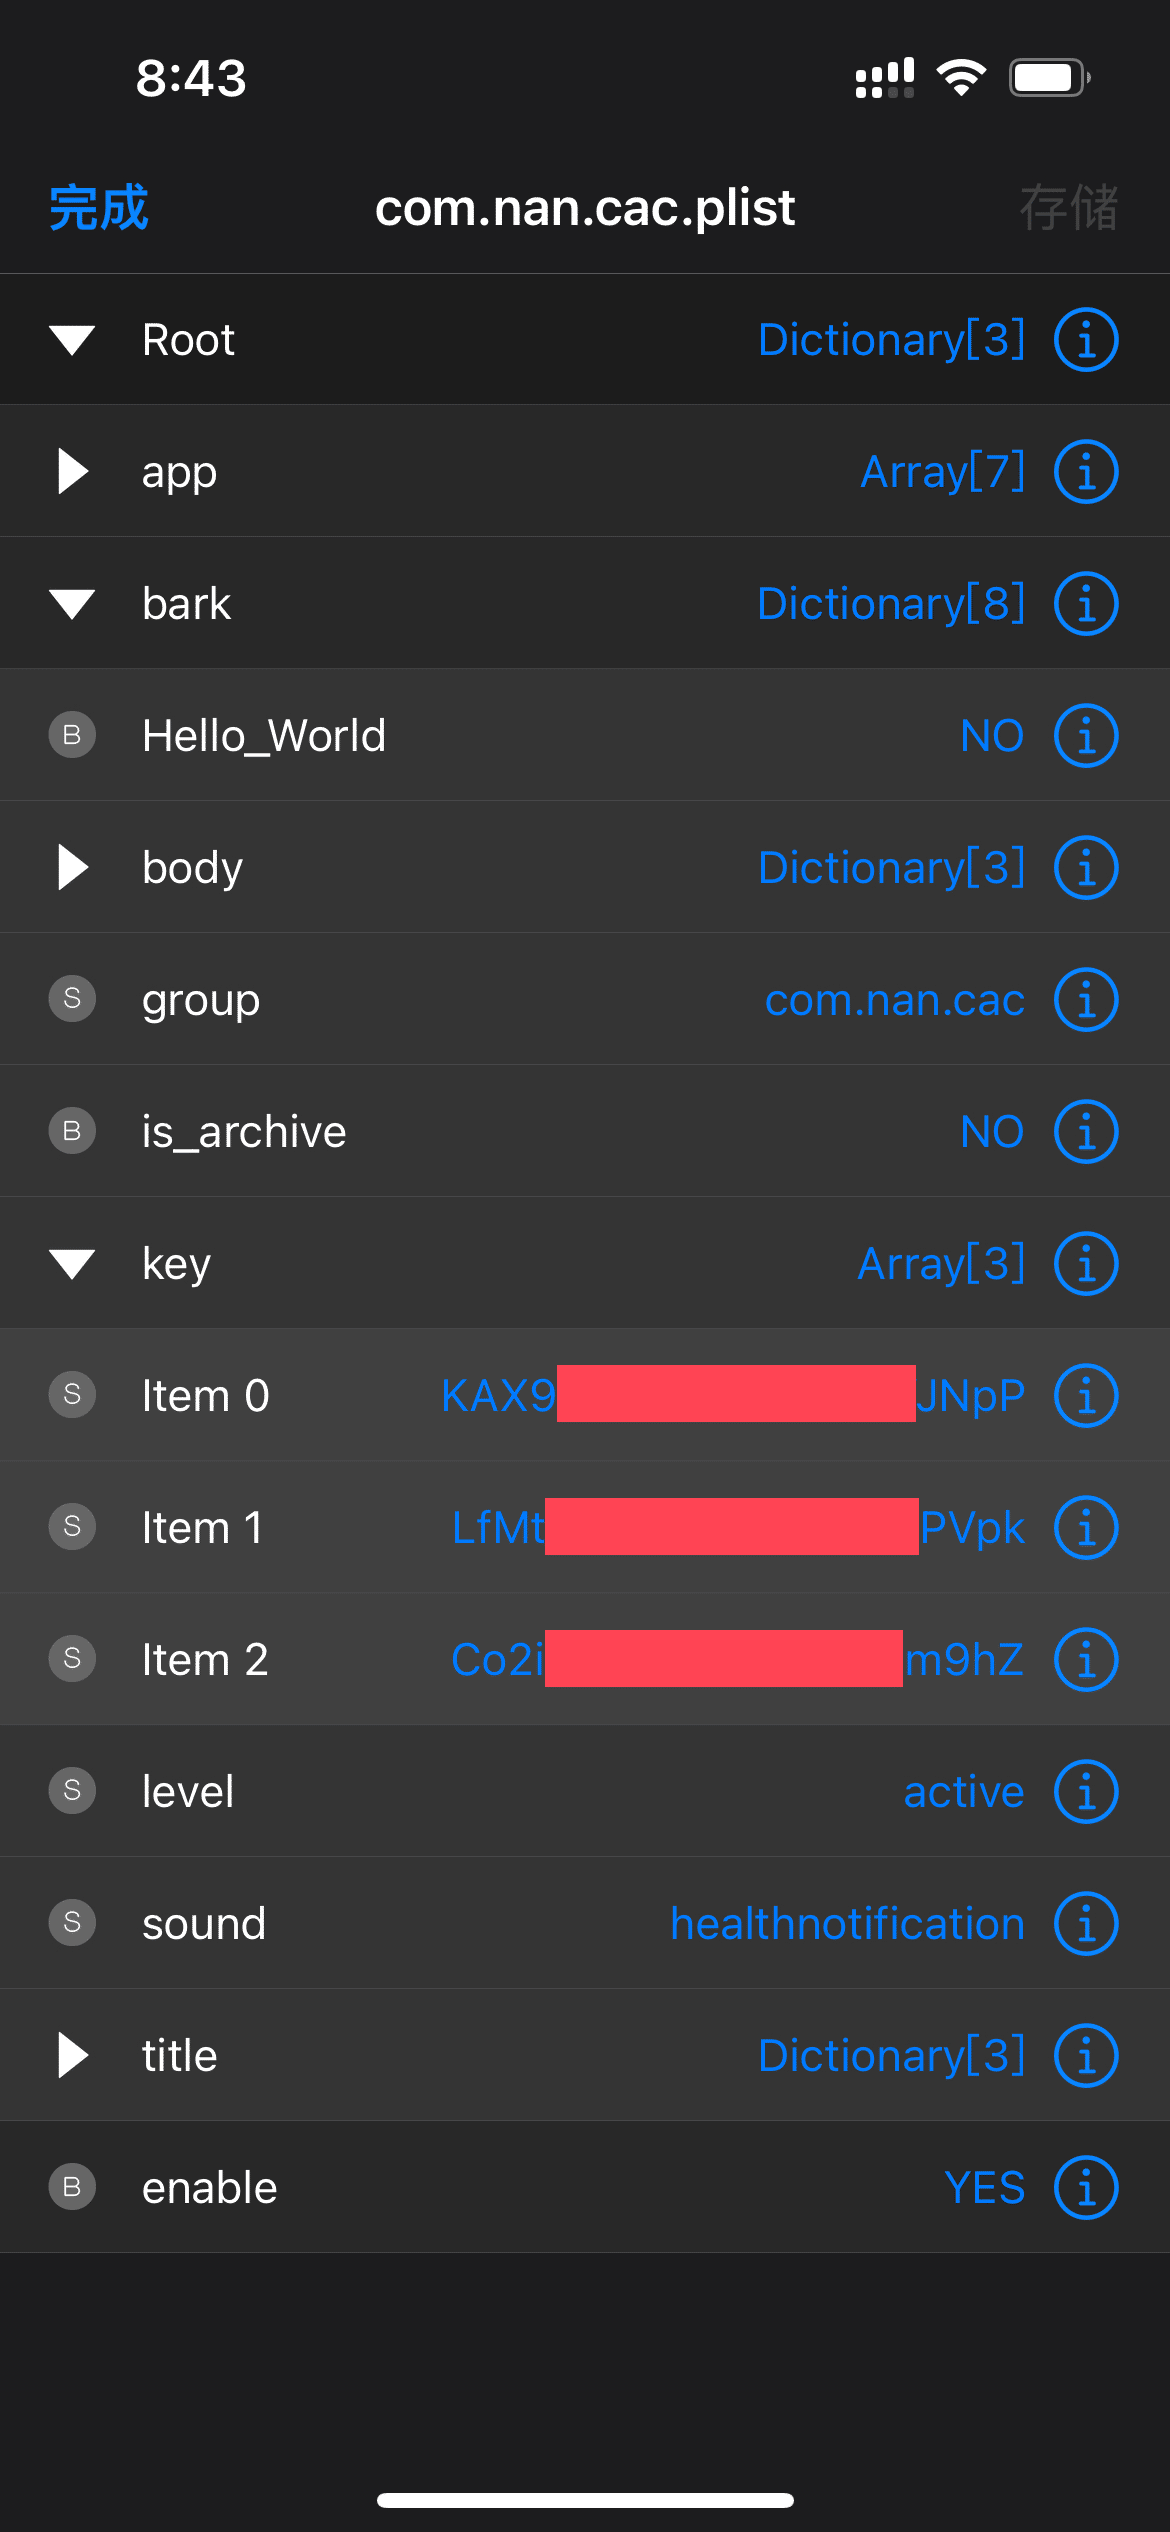
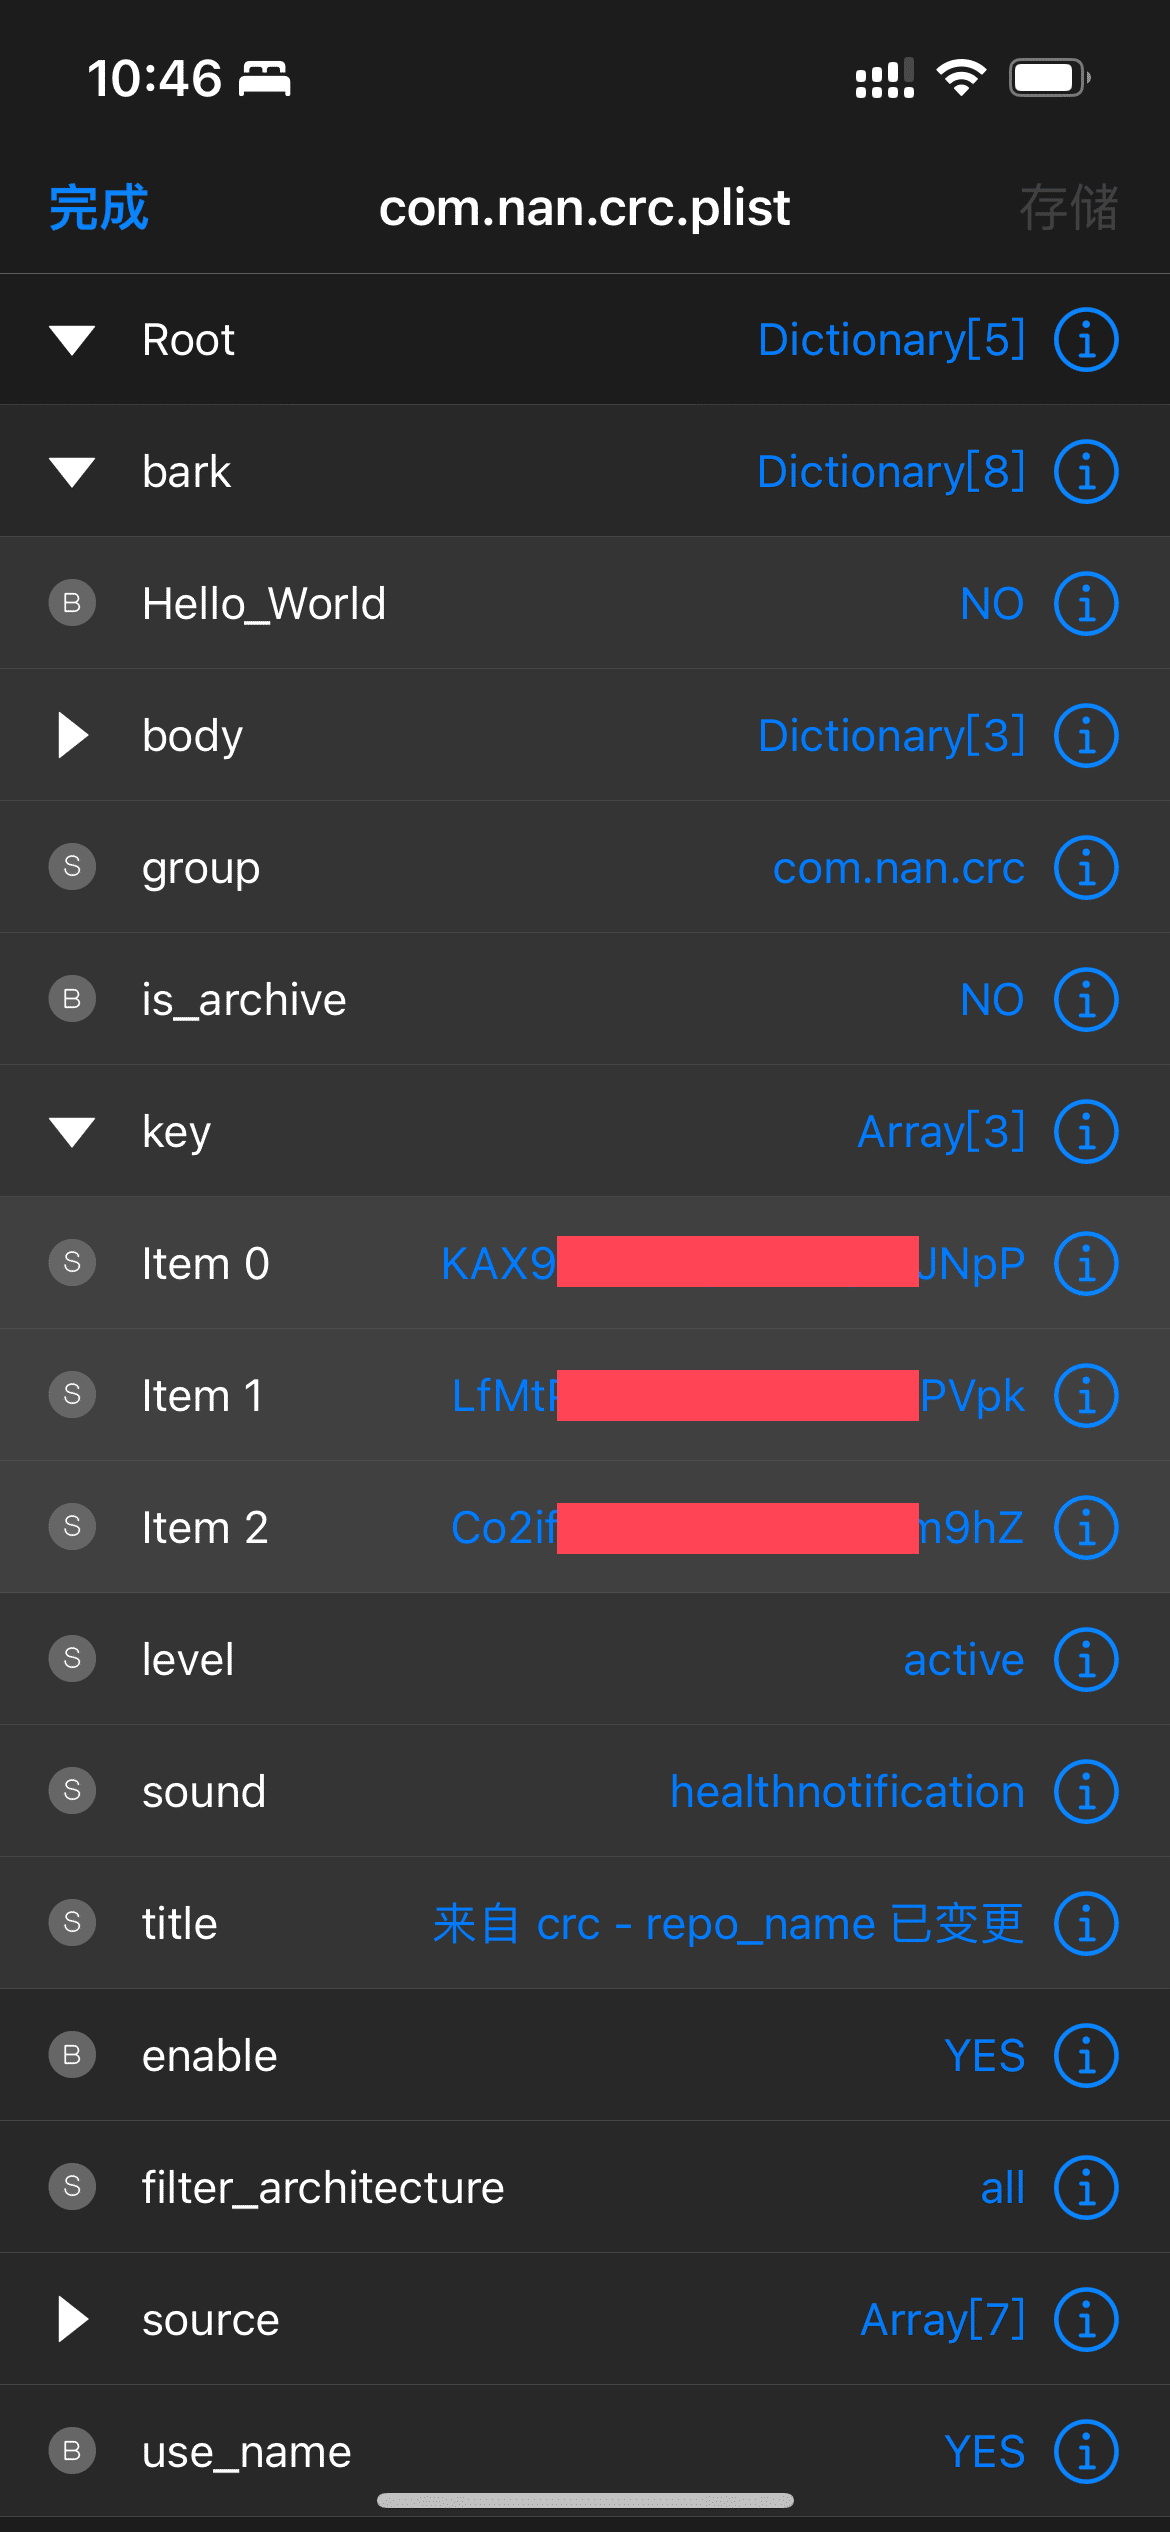
update crc

diff --git a/com.nan.crc/html/crc-settings.html b/com.nan.crc/html/crc-settings.html
@@ -1,0 +1,31 @@
+<!DOCTYPE html>
+<html>
+  <head>
+    <meta charset="UTF-8">
+    <meta name="viewport" content="width=device-width, initial-scale=1">
+    <link rel="stylesheet" type="text/css" href="crc.css">
+    <title>crc 配置文件其他设置</title>
+  </head>
+  <body>
+    <h1>Check repo change 配置文件其他设置</h1>
+    <h2>包过滤（architecture）</h2>
+    <p>用于过滤无根包或者有根包，防止不属于自己环境的包推送打扰自己。</p>
+    <p>可设置为：</p>
+    <p>auto：自动匹配当前越狱环境</p>
+    <p>iphoneos-arm：过滤为有根越狱包</p>
+    <p>iphoneos-arm64：过滤为无根越狱包</p>
+    <p>iphoneos-arm64e：过滤为隐根越狱包（RootHide）</p>
+    <p>all：禁用过滤，将输出所有包</p>
+    <p>默认情况下为 auto，将根据当前越狱的环境来进行匹配，防止其他类型的包更新后知道他更新了但是用不了的难受</p>
+    <p>更改请在配置文件中找到 filter_architecture，并设置为对应值</p>
+    <hr></hr>
+    <h2>包名通知</h2>
+    <p>可以在通知时尝试使用缓存中的包名，而不是包 id 进行通知</p>
+    <p>可能对某些小白比较友好吧</p>
+    <p>但是因为使用的方法更偏向速度，所以有些源上架了不包含包名的包时，会直接打乱我整张缓存表</p>
+    <p>所以加上了检测，如果发现这种情况则这个源的缓存不可信，继续使用包 id 进行通知</p>
+    <p>启用请在配置文件中找到 use_name，并设置为 YES</p>
+    <hr></hr>
+    <a href="crc.html" target="_self">返回首页</a>
+  </body>
+</html>

diff --git a/com.nan.crc/html/crc.html b/com.nan.crc/html/crc.html
@@ -12,7 +12,8 @@
     <h2><a href="crc-key.html">查看</a> 添加推送 key</h2>
     <h2><a href="crc-repo.html">查看</a> 添加要检查更新的软件源</h2>
     <h2><a href="crc-bark-general.html">查看</a> 自定义全局 Bark 推送设置</h2>
-    <h2><a href="crc-bark-app.html">查看</a> 自定义局部 Bark 推送设置</h2>
+    <h2><a href="crc-bark-repo.html">查看</a> 自定义局部 Bark 推送设置</h2>
+    <h2><a href="crc-settings.html">查看</a> 自定义其他设置</h2>
     <h2><a href="https://youtube.com/watch?v=dQw4w9WgXcQ">查看</a> 奇怪の东西</h2>
   </body>
 </html>

diff --git a/com.nan.cac/html/cac-bark-app.html b/com.nan.cac/html/cac-bark-app.html
@@ -26,9 +26,6 @@
       <img src="images/image_4_0_7_light.png" alt="">
     </picture>
     <hr></hr>
-    <p>Hello_World</p>
-    <p>测试的欢迎消息，设置为 YES 将在下一次通知推送时推送一条 Hello World 通知来告知开始工作</p>
-    <hr></hr>
     <p>group</p>
     <p>通知分组，iOS12 后的新功能（好像吧），用于区分与其他推送到的消息</p>
     <hr></hr>

diff --git a/com.nan.crc/html/crc-bark-repo.html b/com.nan.crc/html/crc-bark-repo.html
@@ -26,9 +26,6 @@
       <img src="images/image_4_0_7_light.png" alt="">
     </picture>
     <hr></hr>
-    <p>Hello_World</p>
-    <p>测试的欢迎消息，设置为 YES 将在下一次通知推送时推送一条 Hello World 通知来告知开始工作</p>
-    <hr></hr>
     <p>group</p>
     <p>通知分组，iOS12 后的新功能（好像吧），用于区分与其他推送到的消息</p>
     <hr></hr>
